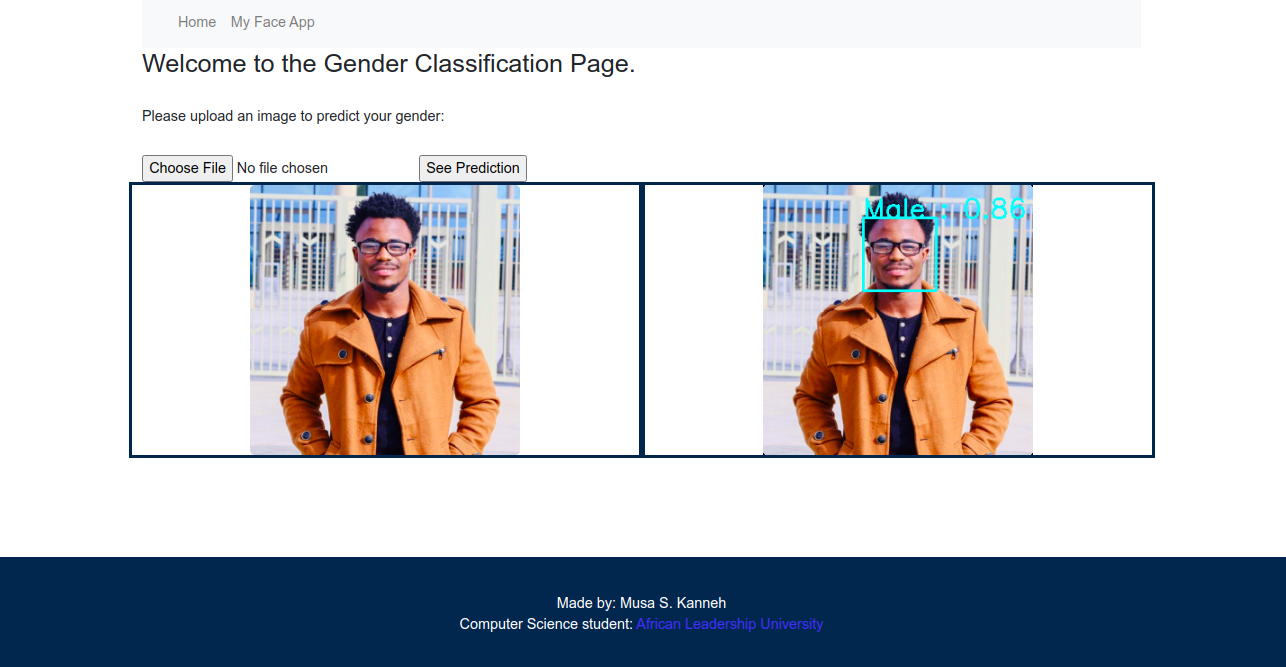
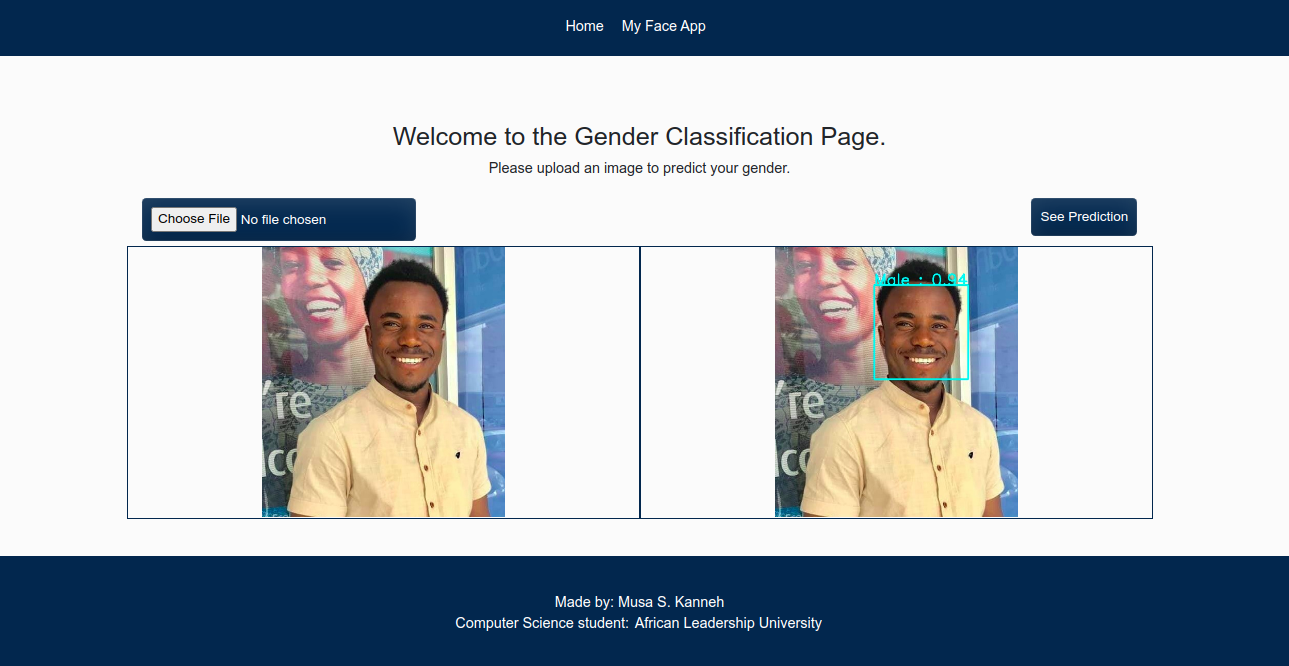
Updated README.md

diff --git a/templates/gender.html b/templates/gender.html
@@ -1,44 +1,44 @@
 {% extends 'base.html' %} {% block bodyblock %}
 
 <main>
-<div class="container">
-    <h3>Welcome to the Gender Classification Page.</h3>
-    <p>Please upload an image to predict your gender.</p>
-</div>
-<div class="container">
-    <form action="#" method="post" enctype="multipart/form-data">
-        <div>
-            <input type="file" id="upload" name="image" required="true">
-        </div>
-        <div>
-            <input type="submit" value="See Prediction">
-        </div>
-    </form>
-</div>
+    <div class="container">
+        <h3>Welcome to the Gender Classification Page.</h3>
+        <p>Please upload an image to predict your gender.</p>
+    </div>
+    <div class="container">
+        <form action="#" method="post" enctype="multipart/form-data">
+            <div>
+                <input type="file" id="upload" name="image" required="true">
+            </div>
+            <div>
+                <input type="submit" value="See Prediction">
+            </div>
+        </form>
+    </div>
 
-{% if fileupload %}
+    {% if fileupload %}
 
-<div class="container">
-    <div class="row">
-        <div class="col-md-6" id="predict">
-            <img src="{{ url_for('static',filename='uploads/')}}{{ img_name }}" alt="" width="{{ w }}" height="300">
-        </div>
-        <div class="col-md-6" id="predict">
-            <img src="{{ url_for('static',filename='predict/')}}{{ img_name }}" alt="" width="{{ w }}" height="300">
+    <div class="container">
+        <div class="row">
+            <div class="col-md-6" id="predict">
+                <img src="{{ url_for('static',filename='uploads/')}}{{ img_name }}" alt="" width="{{ w }}" height="300">
+            </div>
+            <div class="col-md-6" id="predict">
+                <img src="{{ url_for('static',filename='predict/')}}{{ img_name }}" alt="" width="{{ w }}" height="300">
+            </div>
         </div>
     </div>
-</div>
 
 
-{% endif %}
+    {% endif %}
 </main>
 
 <style>
     .container {
         text-align: center;
     }
-
-    main{
+    
+    main {
         padding: 5% 4%;
         background-color: #fbfbfb;
     }
@@ -71,7 +71,7 @@
         border: solid;
         color: #002f4d;
         text-align: center;
-        border: 1px solid red;
+        border: 2px solid #002f4d;
     }
 </style>
 
